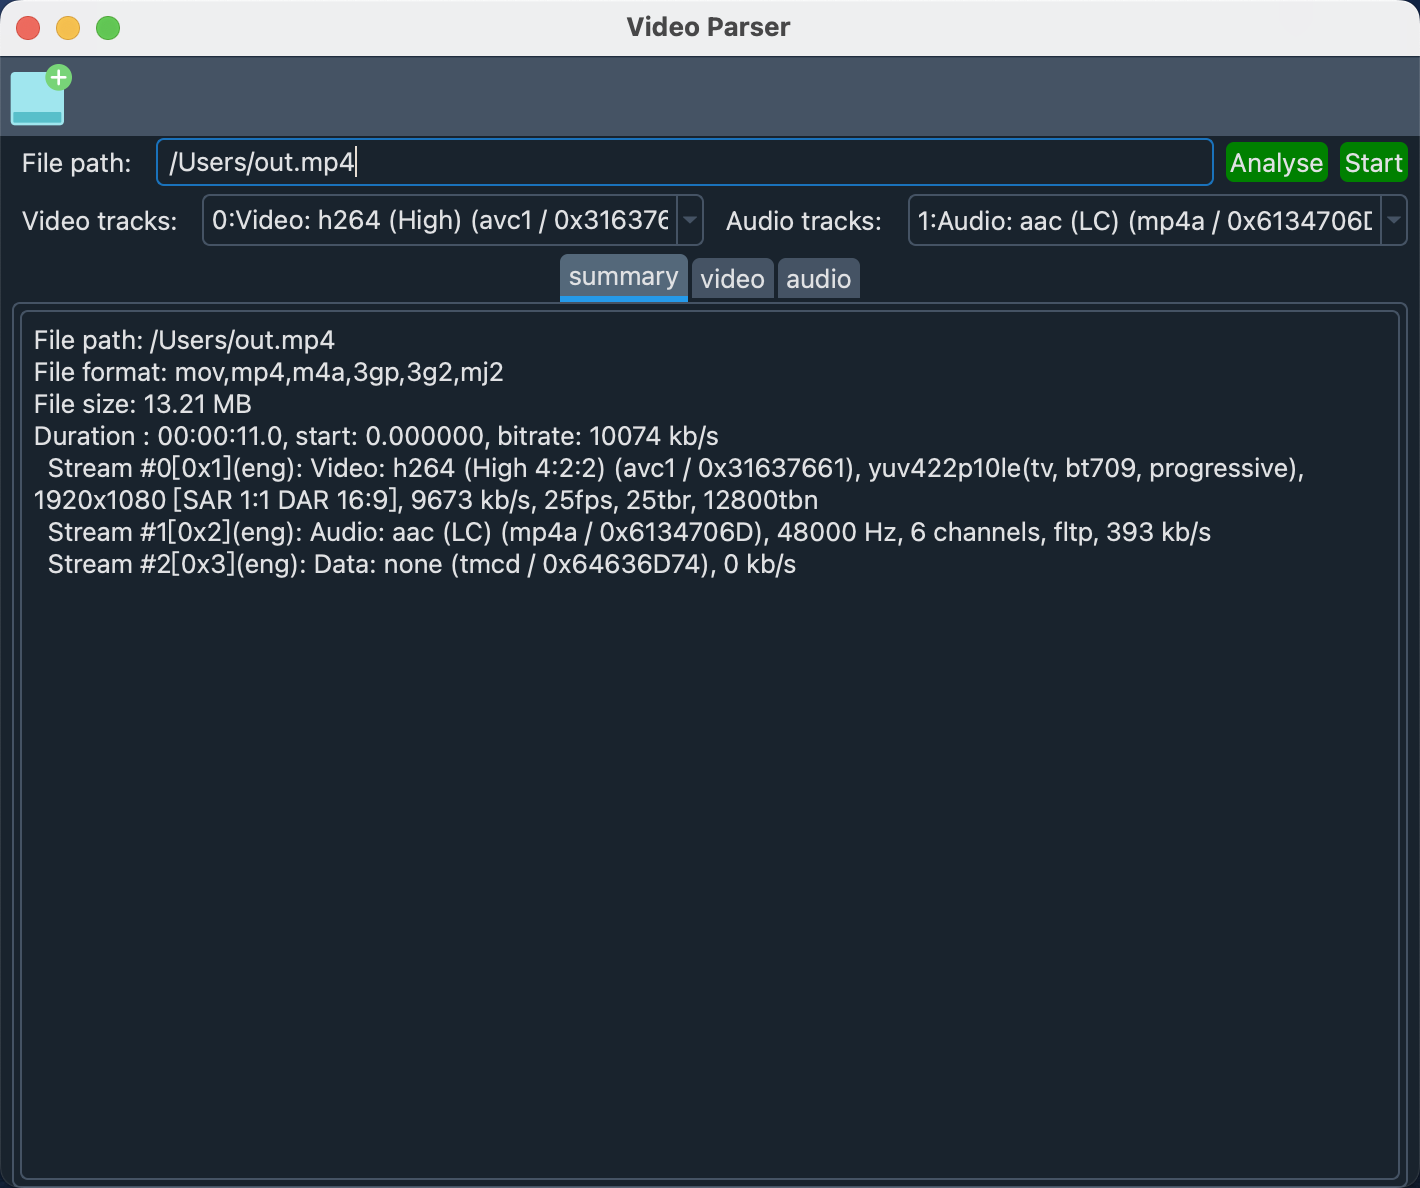
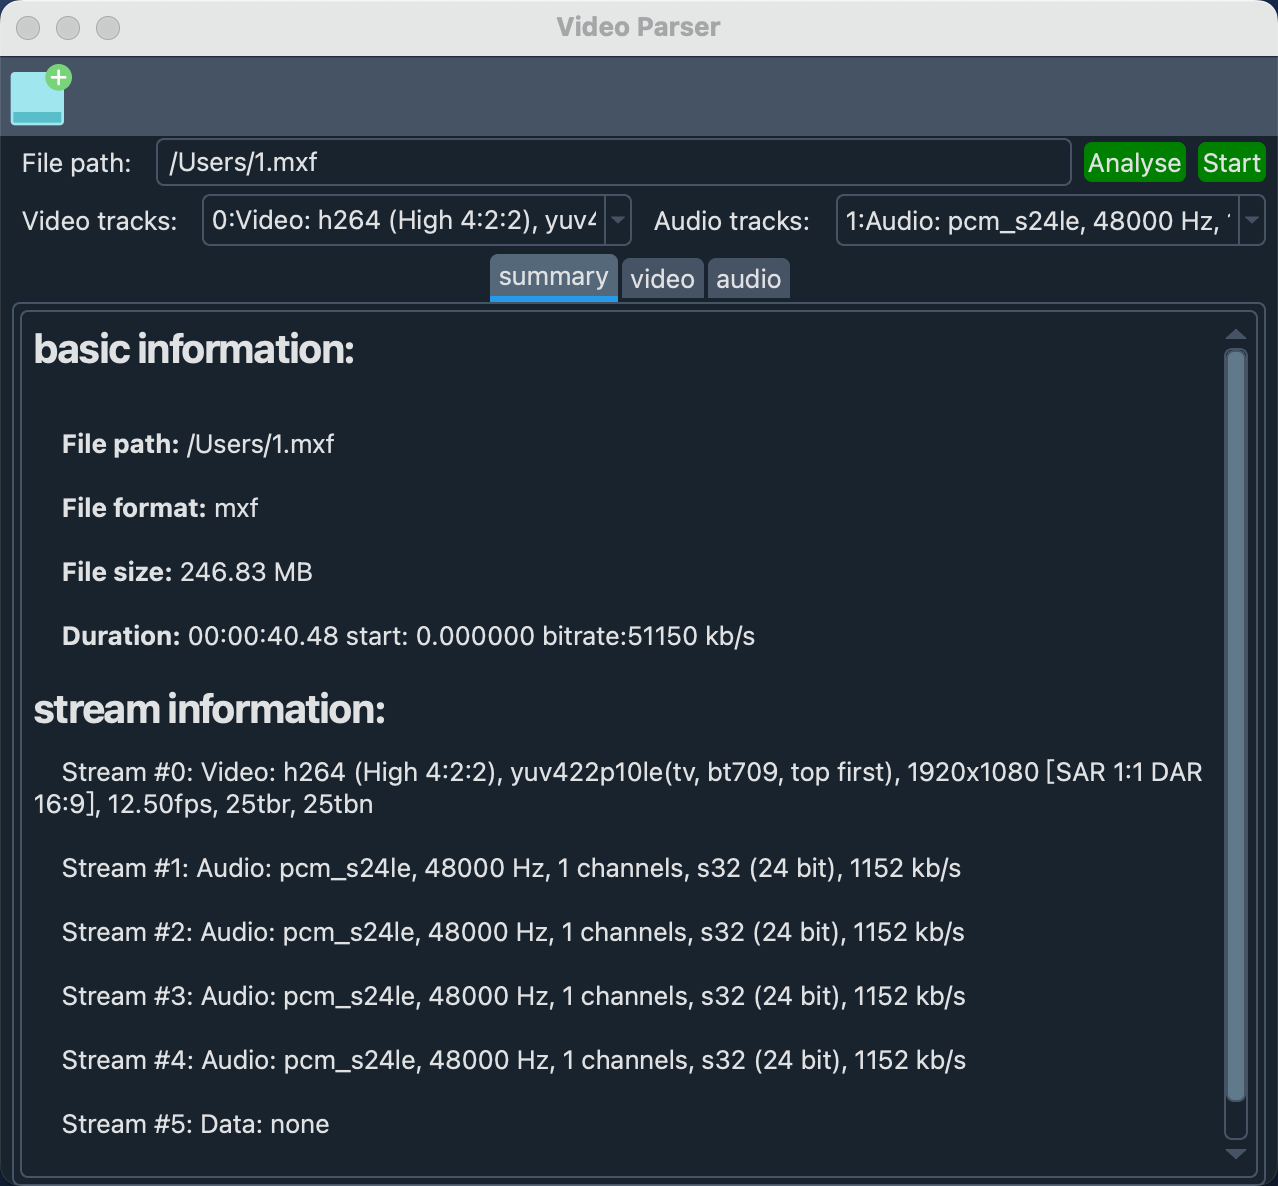
update readme png

diff --git a/src/ffmpegcommon.cpp b/src/ffmpegcommon.cpp
@@ -33,14 +33,14 @@ static void print_fps(QString &info, double d, const char *postfix)
 void parse_summary_info(AVFormatContext *ic, QString &summary_info)
 {
     QFileInfo file_info(ic->url);
-    summary_info = "<h2>basic information</h2><br />";
-    summary_info += "&nbsp;&nbsp;<b>File path:</b> " + QString(ic->url) + "<br /><br />";
-    summary_info += "&nbsp;&nbsp;<b>File format:</b> " + QString(ic->iformat->name) + "<br /><br />";
+    summary_info = "<h2>basic information:</h2><br />";
+    summary_info += "&nbsp;&nbsp;&nbsp;&nbsp;<b>File path:</b> " + QString(ic->url) + "<br /><br />";
+    summary_info += "&nbsp;&nbsp;&nbsp;&nbsp;<b>File format:</b> " + QString(ic->iformat->name) + "<br /><br />";
 
     QString file_size = size_human(file_info.size());
-    summary_info += "&nbsp;&nbsp;<b>File size:</b> " + file_size + "<br /><br />";
+    summary_info += "&nbsp;&nbsp;&nbsp;&nbsp;<b>File size:</b> " + file_size + "<br /><br />";
     if (ic) {
-        summary_info += "&nbsp;&nbsp;<b>Duration:</b> ";
+        summary_info += "&nbsp;&nbsp;&nbsp;&nbsp;<b>Duration:</b> ";
         if (ic->duration != AV_NOPTS_VALUE) {
             int64_t hours, mins, secs, us;
             int64_t duration = ic->duration + (ic->duration <= INT64_MAX - 5000 ? 5000 : 0);
@@ -78,7 +78,7 @@ void parse_summary_info(AVFormatContext *ic, QString &summary_info)
         else
             summary_info += "N/A";
 
-        summary_info += "<h2>stream information</h2>";
+        summary_info += "<h2>stream information:</h2>";
         for (unsigned int i = 0; i < ic->nb_streams; i++) {
             char buf[256];
             int flags = ic->iformat->flags;
@@ -100,7 +100,7 @@ void parse_summary_info(AVFormatContext *ic, QString &summary_info)
             avcodec_string(buf, sizeof(buf), avctx, 0);
             avcodec_free_context(&avctx);
 
-            summary_info += "&nbsp;&nbsp;Stream #" + QString::number(i);
+            summary_info += "&nbsp;&nbsp;&nbsp;&nbsp;Stream #" + QString::number(i);
             if (flags & AVFMT_SHOW_IDS)
                 summary_info += "[0x" + QString().setNum(st->id, 16) + "]";
             if (lang) {
